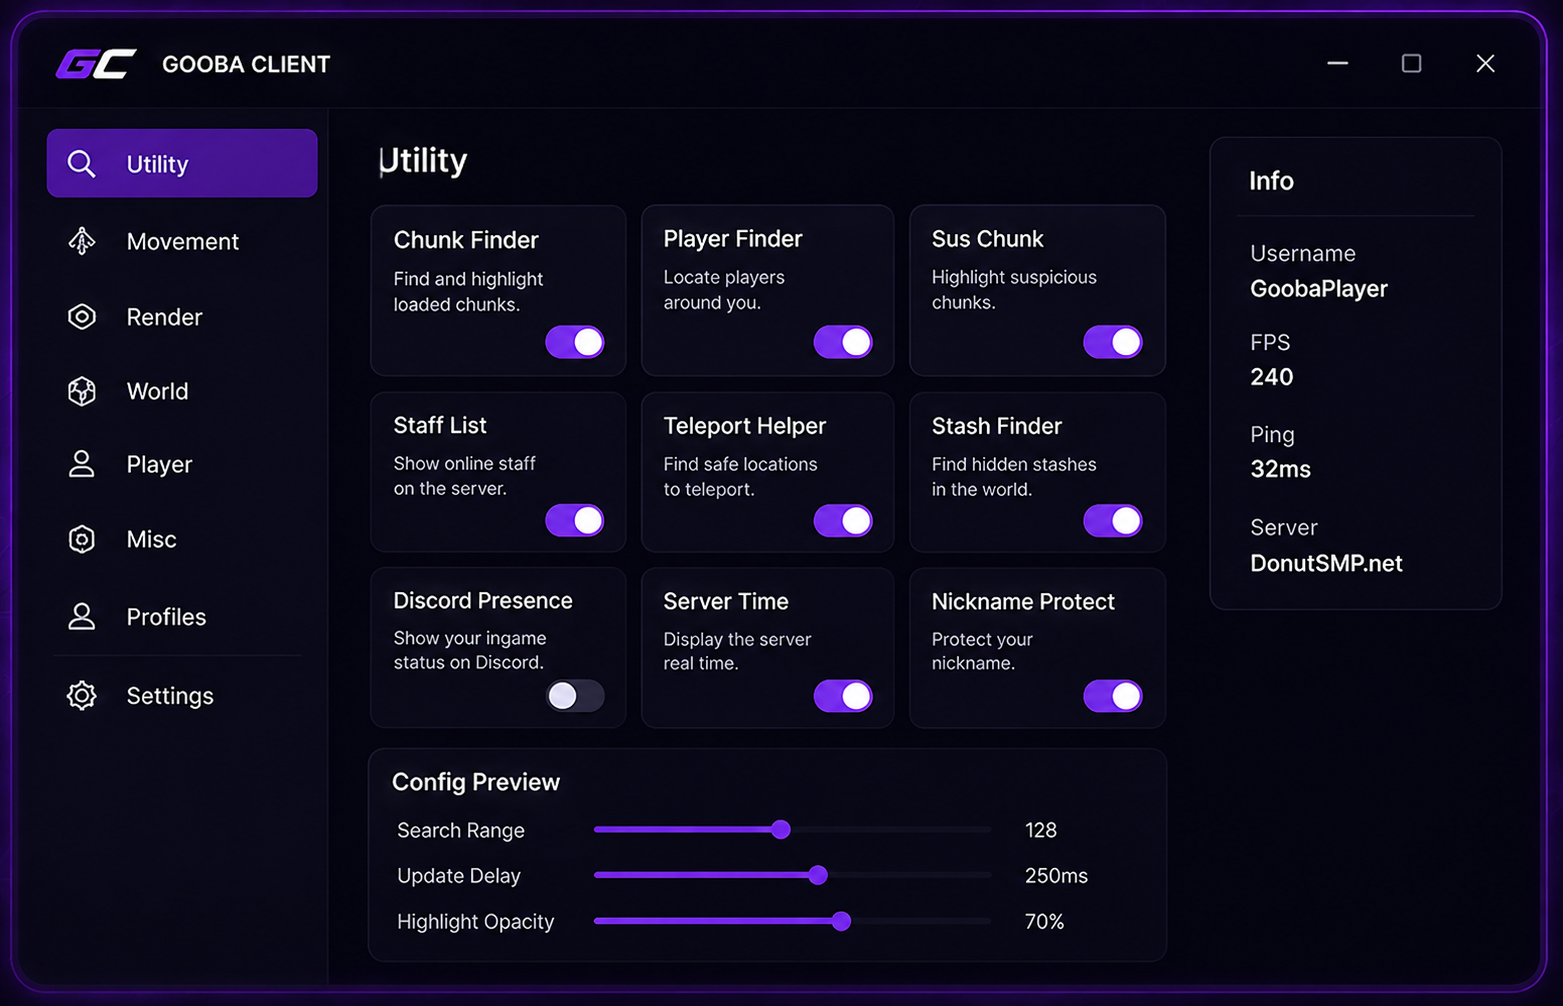
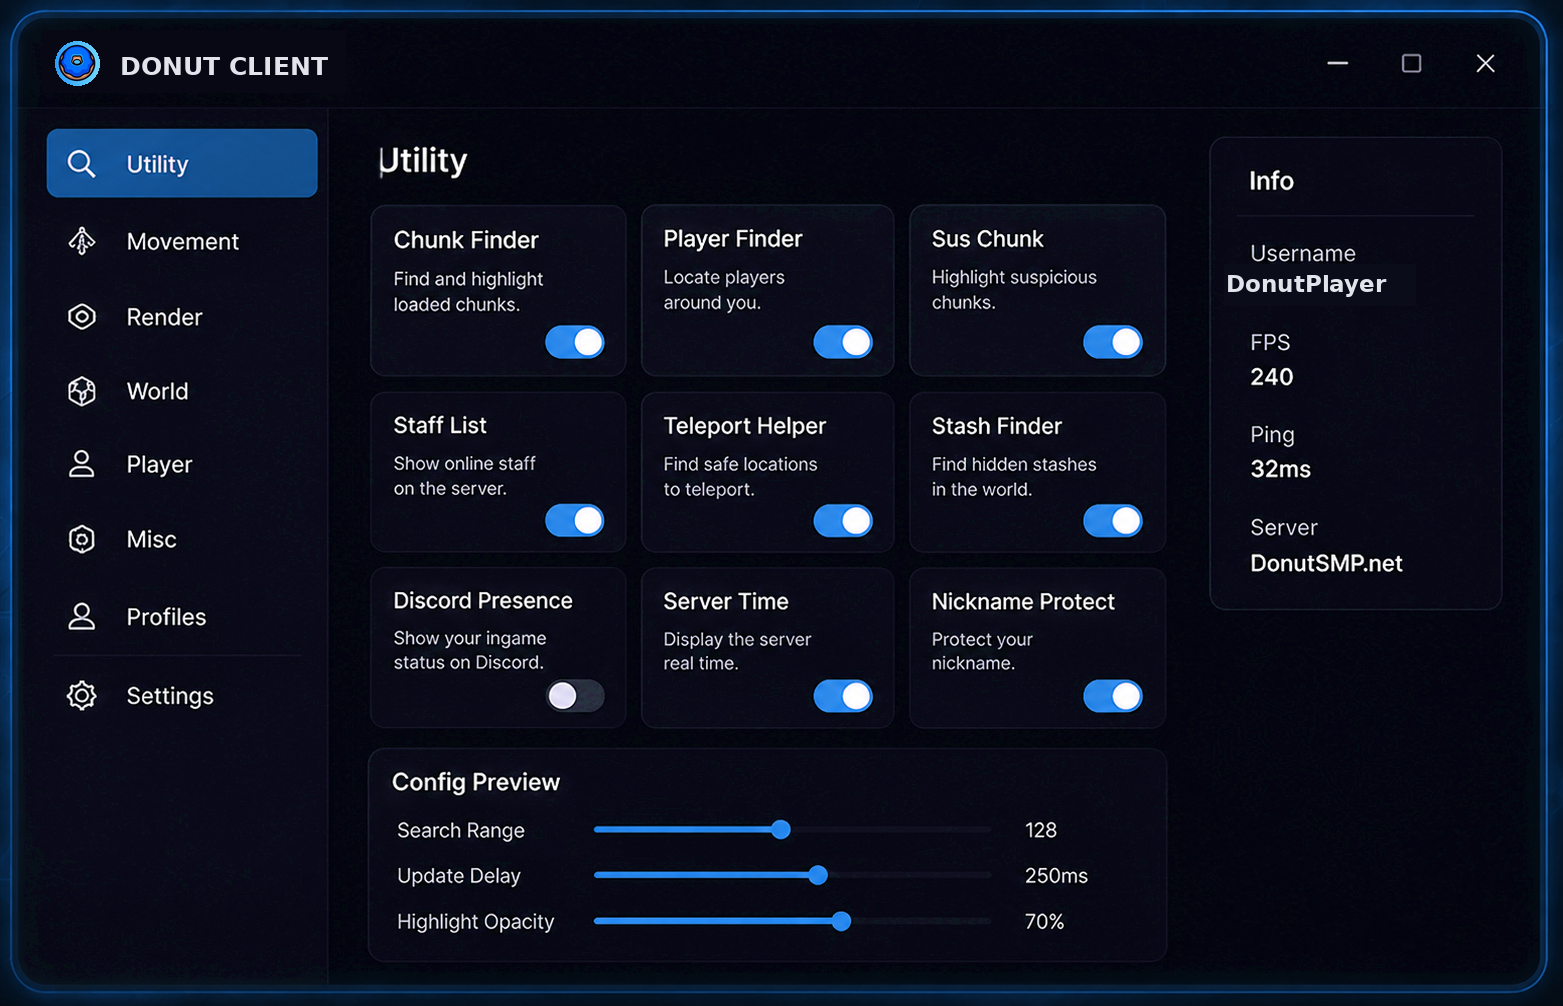
Add files via upload

diff --git a/index.html b/index.html
@@ -22,7 +22,7 @@
   <header class="nav-wrap" id="top">
     <nav class="nav container" aria-label="Primary navigation">
       <a class="brand" href="#home">
-        <img src="assets/DonutClient-mark-reference.png" alt="" class="brand-mark">
+        <img src="assets/donutclient-logo.png" alt="" class="brand-mark">
         <span>DonutClient</span>
       </a>
 
@@ -36,7 +36,7 @@
         <a href="#showcase">Showcase</a>
         <a href="#installation">Installation</a>
         <a href="#faq">FAQ</a>
-      <a class="nav-download" href="https://github.com/zav001/D3et2t23y3/releases/download/v1/DonutClientClient.1.21.11.jar" download="DonutClientClient.1.21.11.jar" rel="noopener">
+      <a class="nav-download" href="https://github.com/zav001/D3et2t23y3/releases/download/v1/DonutClient-1.21.11.jar" download="DonutClient-1.21.11.jar" rel="noopener">
           <span>↓</span> Download DonutClient
         </a>
       </div>
@@ -48,12 +48,12 @@
       <div class="container hero-grid">
         <div class="hero-copy reveal">
           <div class="eyebrow">DONUTSMP CLIENT · FABRIC <span>1.21.11</span></div>
-          <h1><em>GOOBA</em><br>CLIENT</h1>
+          <h1><em>DONUT</em><br>CLIENT</h1>
           <p class="hero-lead">The Best DonutSMP Client</p>
           <p class="hero-body">80+ powerful modules. Optimized for DonutSMP. Free download for Fabric 1.21.11.</p>
 
           <div class="hero-actions">
-            <a class="button button-primary" href="https://github.com/zav001/D3et2t23y3/releases/download/v1/DonutClientClient.1.21.11.jar" download="DonutClientClient.1.21.11.jar" rel="noopener">
+            <a class="button button-primary" href="https://github.com/zav001/D3et2t23y3/releases/download/v1/DonutClient-1.21.11.jar" download="DonutClient-1.21.11.jar" rel="noopener">
               <span>↓</span> Download DonutClient
             </a>
             <a class="button button-secondary" href="#features">Explore Features <span>→</span></a>
@@ -68,7 +68,7 @@
           <div class="preview-glow"></div>
           <div class="preview-frame">
             <div class="preview-bar">
-              <div class="preview-brand"><img src="assets/DonutClient-mark-reference.png" alt=""> <span>DonutClient</span></div>
+              <div class="preview-brand"><img src="assets/donutclient-logo.png" alt=""> <span>DonutClient</span></div>
               <div class="window-controls"><span>−</span><span>□</span><span>×</span></div>
             </div>
             <img src="assets/client-preview-reference.png" alt="DonutClient interface preview" class="preview-image">
@@ -139,7 +139,7 @@
             <div class="step-icon">↓</div>
             <h3>Download JAR</h3>
             <p>Get the latest DonutClient <code>.jar</code> from the configured release asset.</p>
-            <a class="text-link" href="https://github.com/zav001/D3et2t23y3/releases/download/v1/DonutClientClient.1.21.11.jar" download="DonutClientClient.1.21.11.jar" rel="noopener">Download →</a>
+            <a class="text-link" href="https://github.com/zav001/D3et2t23y3/releases/download/v1/DonutClient-1.21.11.jar" download="DonutClient-1.21.11.jar" rel="noopener">Download →</a>
           </article>
           <article class="step reveal">
             <span class="step-number">02</span>
@@ -159,7 +159,7 @@
 
         <div class="download-band reveal">
           <div><span class="kicker">READY WHEN YOU ARE</span><h3>Download DonutClient.</h3></div>
-          <a class="button button-primary" href="https://github.com/zav001/D3et2t23y3/releases/download/v1/DonutClientClient.1.21.11.jar" download="DonutClientClient.1.21.11.jar" rel="noopener">Download DonutClient <span>↓</span></a>
+          <a class="button button-primary" href="https://github.com/zav001/D3et2t23y3/releases/download/v1/DonutClient-1.21.11.jar" download="DonutClient-1.21.11.jar" rel="noopener">Download DonutClient <span>↓</span></a>
         </div>
       </div>
     </section>
@@ -197,12 +197,12 @@
   <footer class="footer">
     <div class="container footer-main">
       <div class="footer-brand">
-        <a class="brand" href="#top"><img src="assets/DonutClient-mark-reference.png" alt=""> <span>DonutClient</span></a>
+        <a class="brand" href="#top"><img src="assets/donutclient-logo.png" alt=""> <span>DonutClient</span></a>
         <p>DonutClient for DonutSMP · Minecraft 1.21.11</p>
       </div>
       <div class="footer-links">
         <a href="#home">Home</a><a href="#features">Features</a><a href="#installation">Installation</a><a href="#faq">FAQ</a>
-        <a href="https://github.com/zav001/D3et2t23y3/releases/download/v1/DonutClientClient.1.21.11.jar" download="DonutClientClient.1.21.11.jar" rel="noopener">Download</a>
+        <a href="https://github.com/zav001/D3et2t23y3/releases/download/v1/DonutClient-1.21.11.jar" download="DonutClient-1.21.11.jar" rel="noopener">Download</a>
       </div>
     </div>
     <div class="container footer-bottom">

diff --git a/README.md b/README.md
@@ -1,13 +1,13 @@
-# Goobaa Client — DonutSMP 1.21.11 Website
+# DonutClient — DonutSMP 1.21.11 Website
 
-A static, responsive landing page for Goobaa Client, built for DonutSMP on Minecraft 1.21.11.
+A static, responsive landing page for DonutClient, built for DonutSMP on Minecraft 1.21.11.
 
 ## Download setup
 
 The site uses a **direct GitHub Release asset URL** for the Download buttons. Visitors are sent straight to the `.jar` download instead of the repository homepage.
 
 Current download:
-`https://github.com/zav001/D3et2t23y3/releases/download/v1/GoobaaClient.1.21.11.jar`
+`https://github.com/zav001/D3et2t23y3/releases/download/v1/DonutClient-1.21.11.jar`
 
 ### Important privacy note
 
